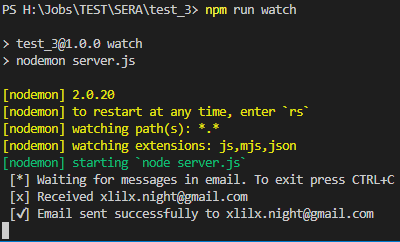
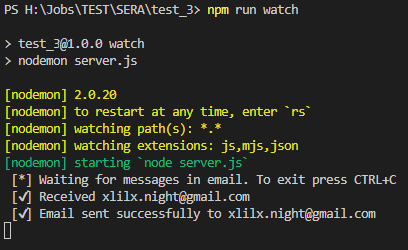
[UPDATE] README.md

Changed region(s): [[0.0, 0.3471, 1.0, 1.0], [0.0, 0.1446, 0.36, 0.2893], [0.0, 0.0, 0.75, 0.0868]]

diff --git a/server.js b/server.js
@@ -56,7 +56,7 @@ amqp.connect(`${process.env.RABBITMQ_CONNECTION}://${process.env.RABBITMQ_HOST}`
     console.log(' [*] Waiting for messages in %s. To exit press CTRL+C', queue);
 
     channel.consume(queue, (msg) => {
-      console.log(' [x] Received %s', msg.content.toString());
+      console.log(' [✔] Received %s', msg.content.toString());
 
       const sendEmail = async (mailDetails) => {
         const transporter = nodemailer.createTransport({
